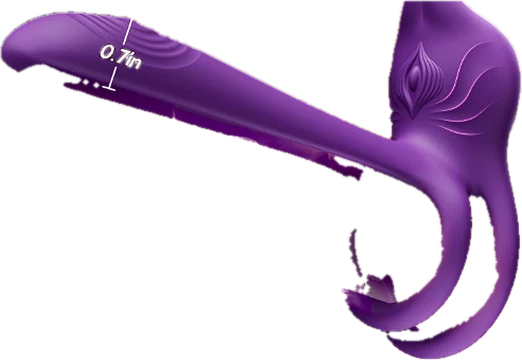
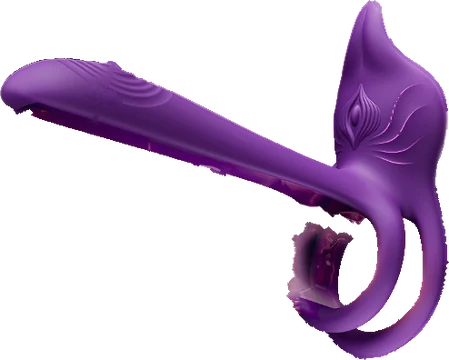
Cleaner Royaleye and Viele pictures, cut out inside the user's marked outline

diff --git a/sw.js b/sw.js
@@ -1,6 +1,6 @@
 // Offline cache: always try the network first (so updates show up immediately),
 // fall back to the cached copy when offline.
-const CACHE = 'toydeck-v18';
+const CACHE = 'toydeck-v19';
 const FILES = [
   './', 'index.html', 'styles.css', 'app.js', 'manifest.webmanifest',
   'icons/icon.svg', 'icons/icon-192.png', 'icons/icon-512.png', 'icons/maskable-512.png',
